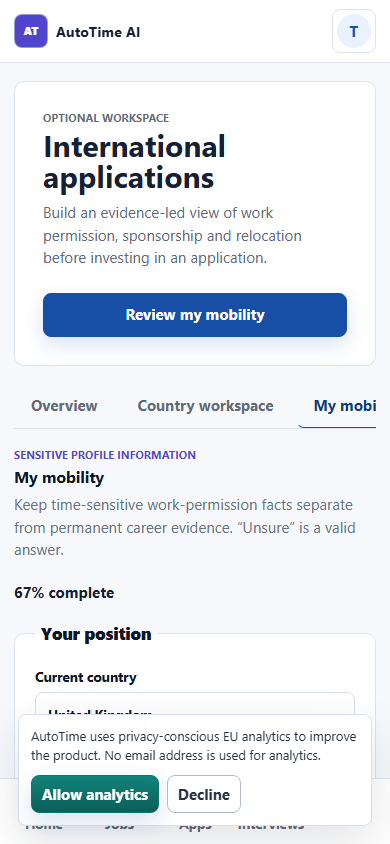
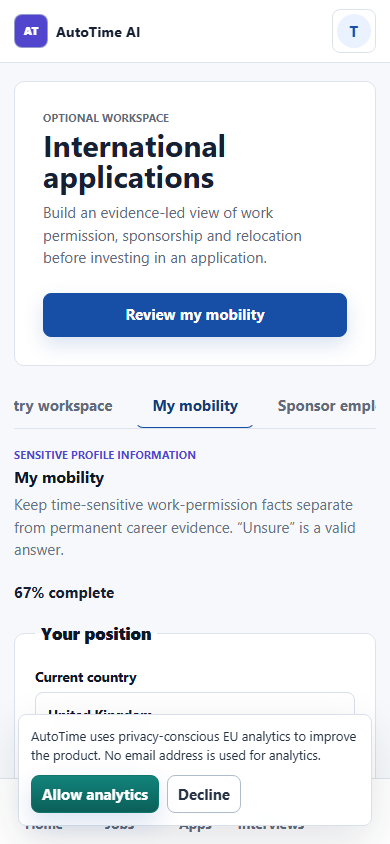
Fix mobile tab clipping in Countries navigation
The active tab in International/Countries navigation did not scroll
into view on selection, so tapping a tab past the first couple (e.g.
"My mobility") on mobile left its label clipped at the viewport edge.
Scroll the active tab into view when the section changes.

Changed region(s): [[0.3385, 0.4621, 0.9846, 0.4929], [0.0308, 0.4621, 0.2769, 0.4929]]

diff --git a/tests/e2e/28-phase-5-countries.spec.ts b/tests/e2e/28-phase-5-countries.spec.ts
@@ -146,7 +146,19 @@ test("mobility profile form, sponsor guide and official sources", async ({
   await page.getByRole("button", { name: "My mobility", exact: true }).click();
   await expect(page.getByLabel("Applicant position")).toBeVisible();
   await capture(page, "mobility-form-1440x900.png");
+
+  // Re-navigate at mobile width so the tab tap happens at that viewport
+  // (not a desktop click followed by a resize) — this is what actually
+  // exercises the active-tab-scrolls-into-view behavior on a real phone.
   await page.setViewportSize({ width: 390, height: 844 });
+  await gotoInternational(page);
+  await page.getByRole("button", { name: "My mobility", exact: true }).click();
+  await expect(page.getByLabel("Applicant position")).toBeVisible();
+  const mobilityTab = page.getByRole("button", {
+    name: "My mobility",
+    exact: true,
+  });
+  await expect(mobilityTab).toBeInViewport();
   await capture(page, "mobility-form-390x844.png");
 
   await page.setViewportSize({ width: 1440, height: 900 });

diff --git a/apps/web/components/international/InternationalSectionNavigation.tsx b/apps/web/components/international/InternationalSectionNavigation.tsx
@@ -1,3 +1,4 @@
+import { useEffect, useRef } from "react";
 import type { InternationalSection } from "./model";
 
 const sections: Array<[InternationalSection, string]> = [
@@ -15,6 +16,13 @@ export function InternationalSectionNavigation({
   section: InternationalSection;
   onChange: (section: InternationalSection) => void;
 }) {
+  const activeRef = useRef<HTMLButtonElement>(null);
+  useEffect(() => {
+    activeRef.current?.scrollIntoView({
+      block: "nearest",
+      inline: "center",
+    });
+  }, [section]);
   return (
     <nav aria-label="International sections" className="international-tabs">
       {sections.map(([id, label]) => (
@@ -23,6 +31,7 @@ export function InternationalSectionNavigation({
           className={section === id ? "active" : ""}
           key={id}
           onClick={() => onChange(id)}
+          ref={section === id ? activeRef : undefined}
           type="button"
         >
           {label}
